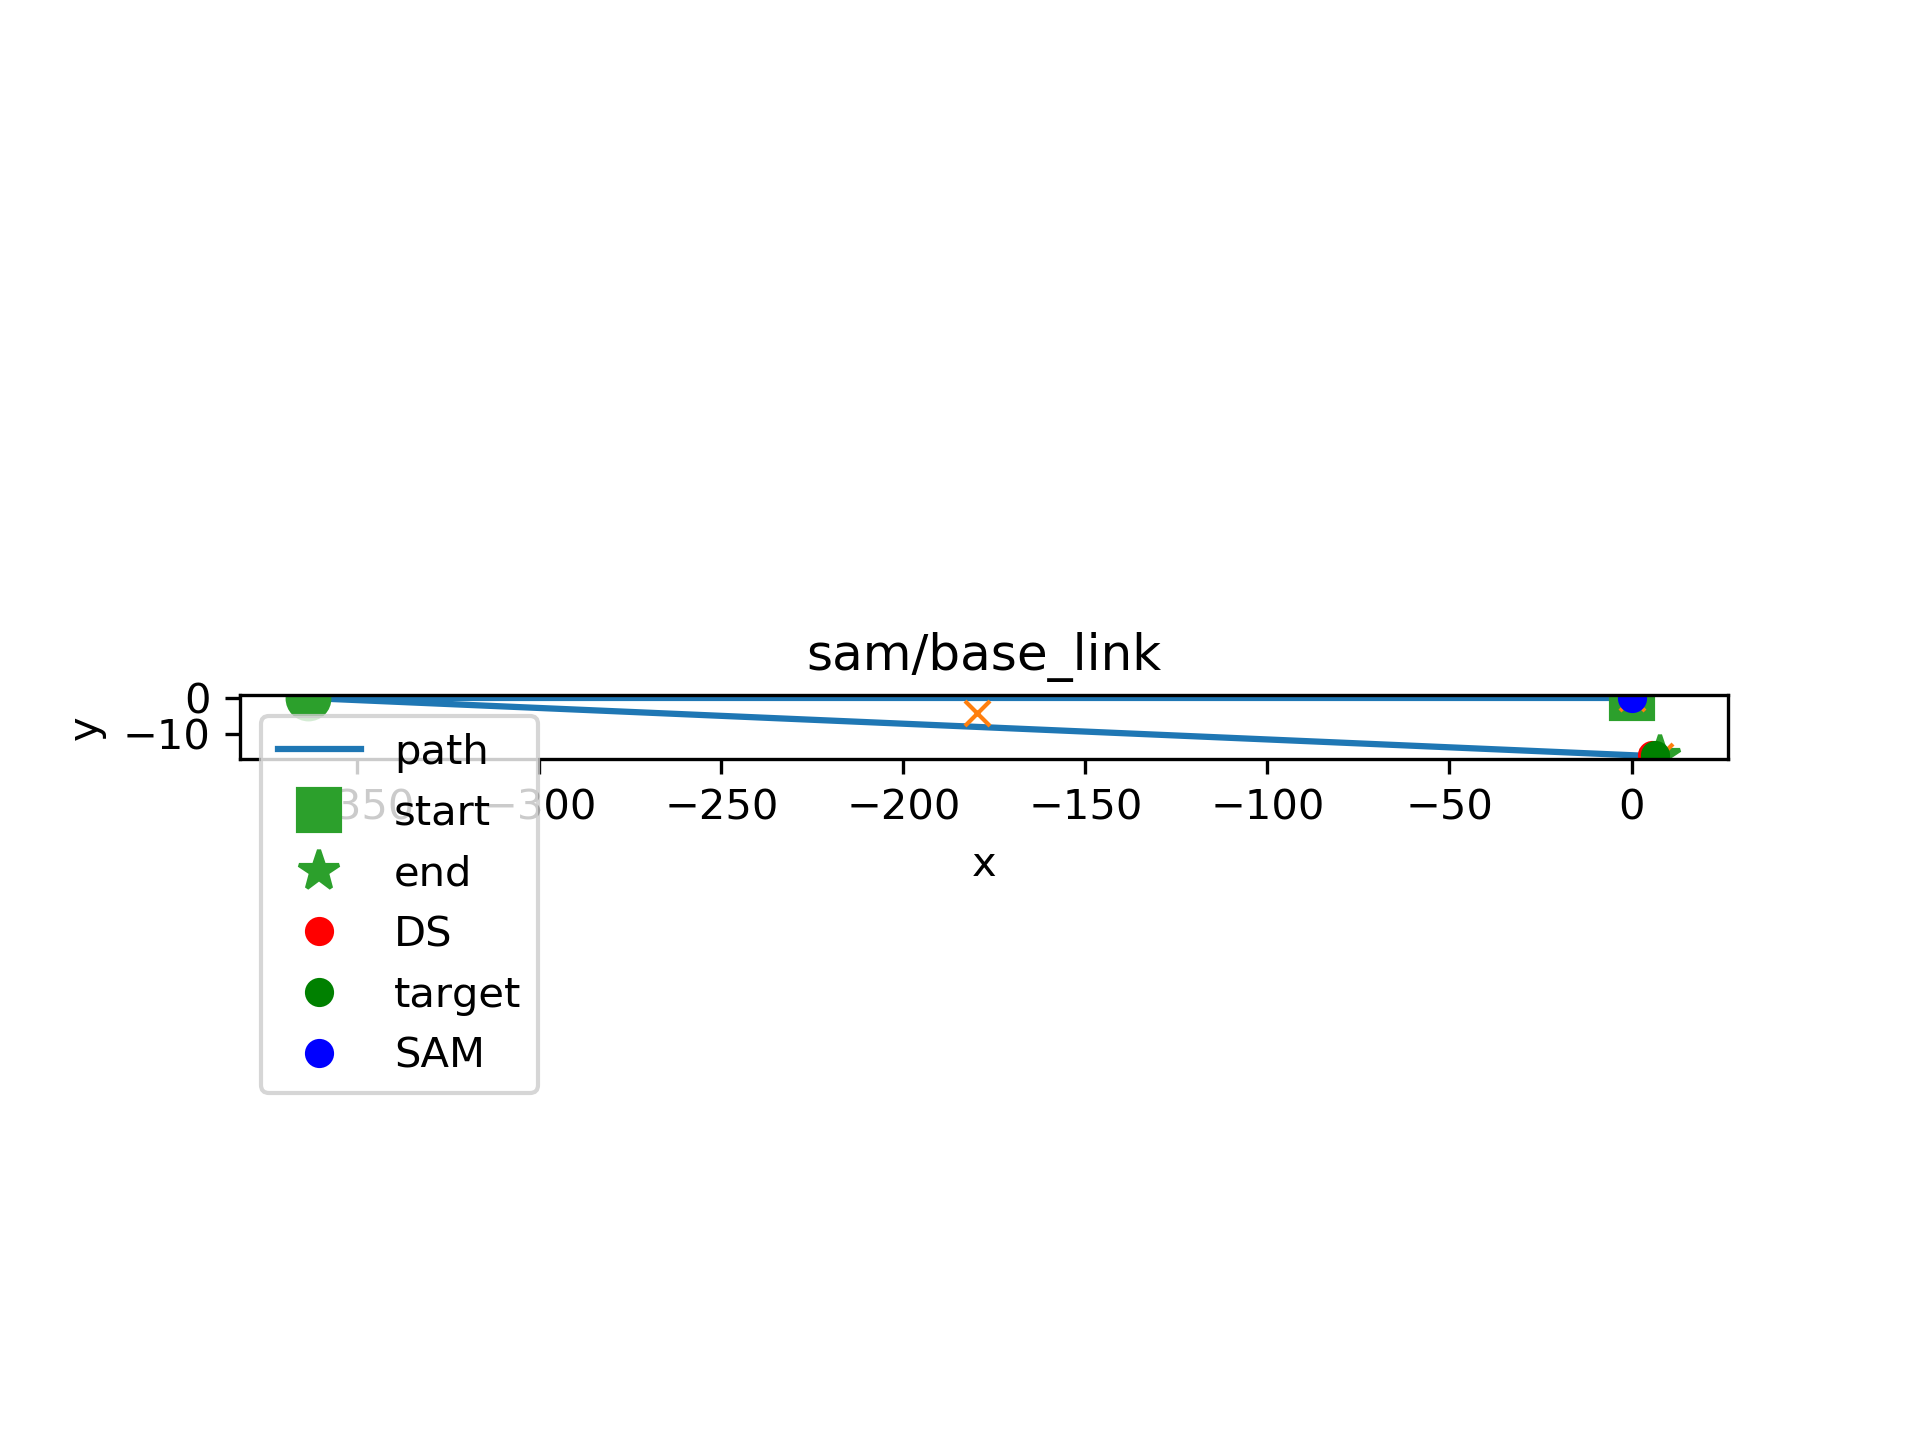
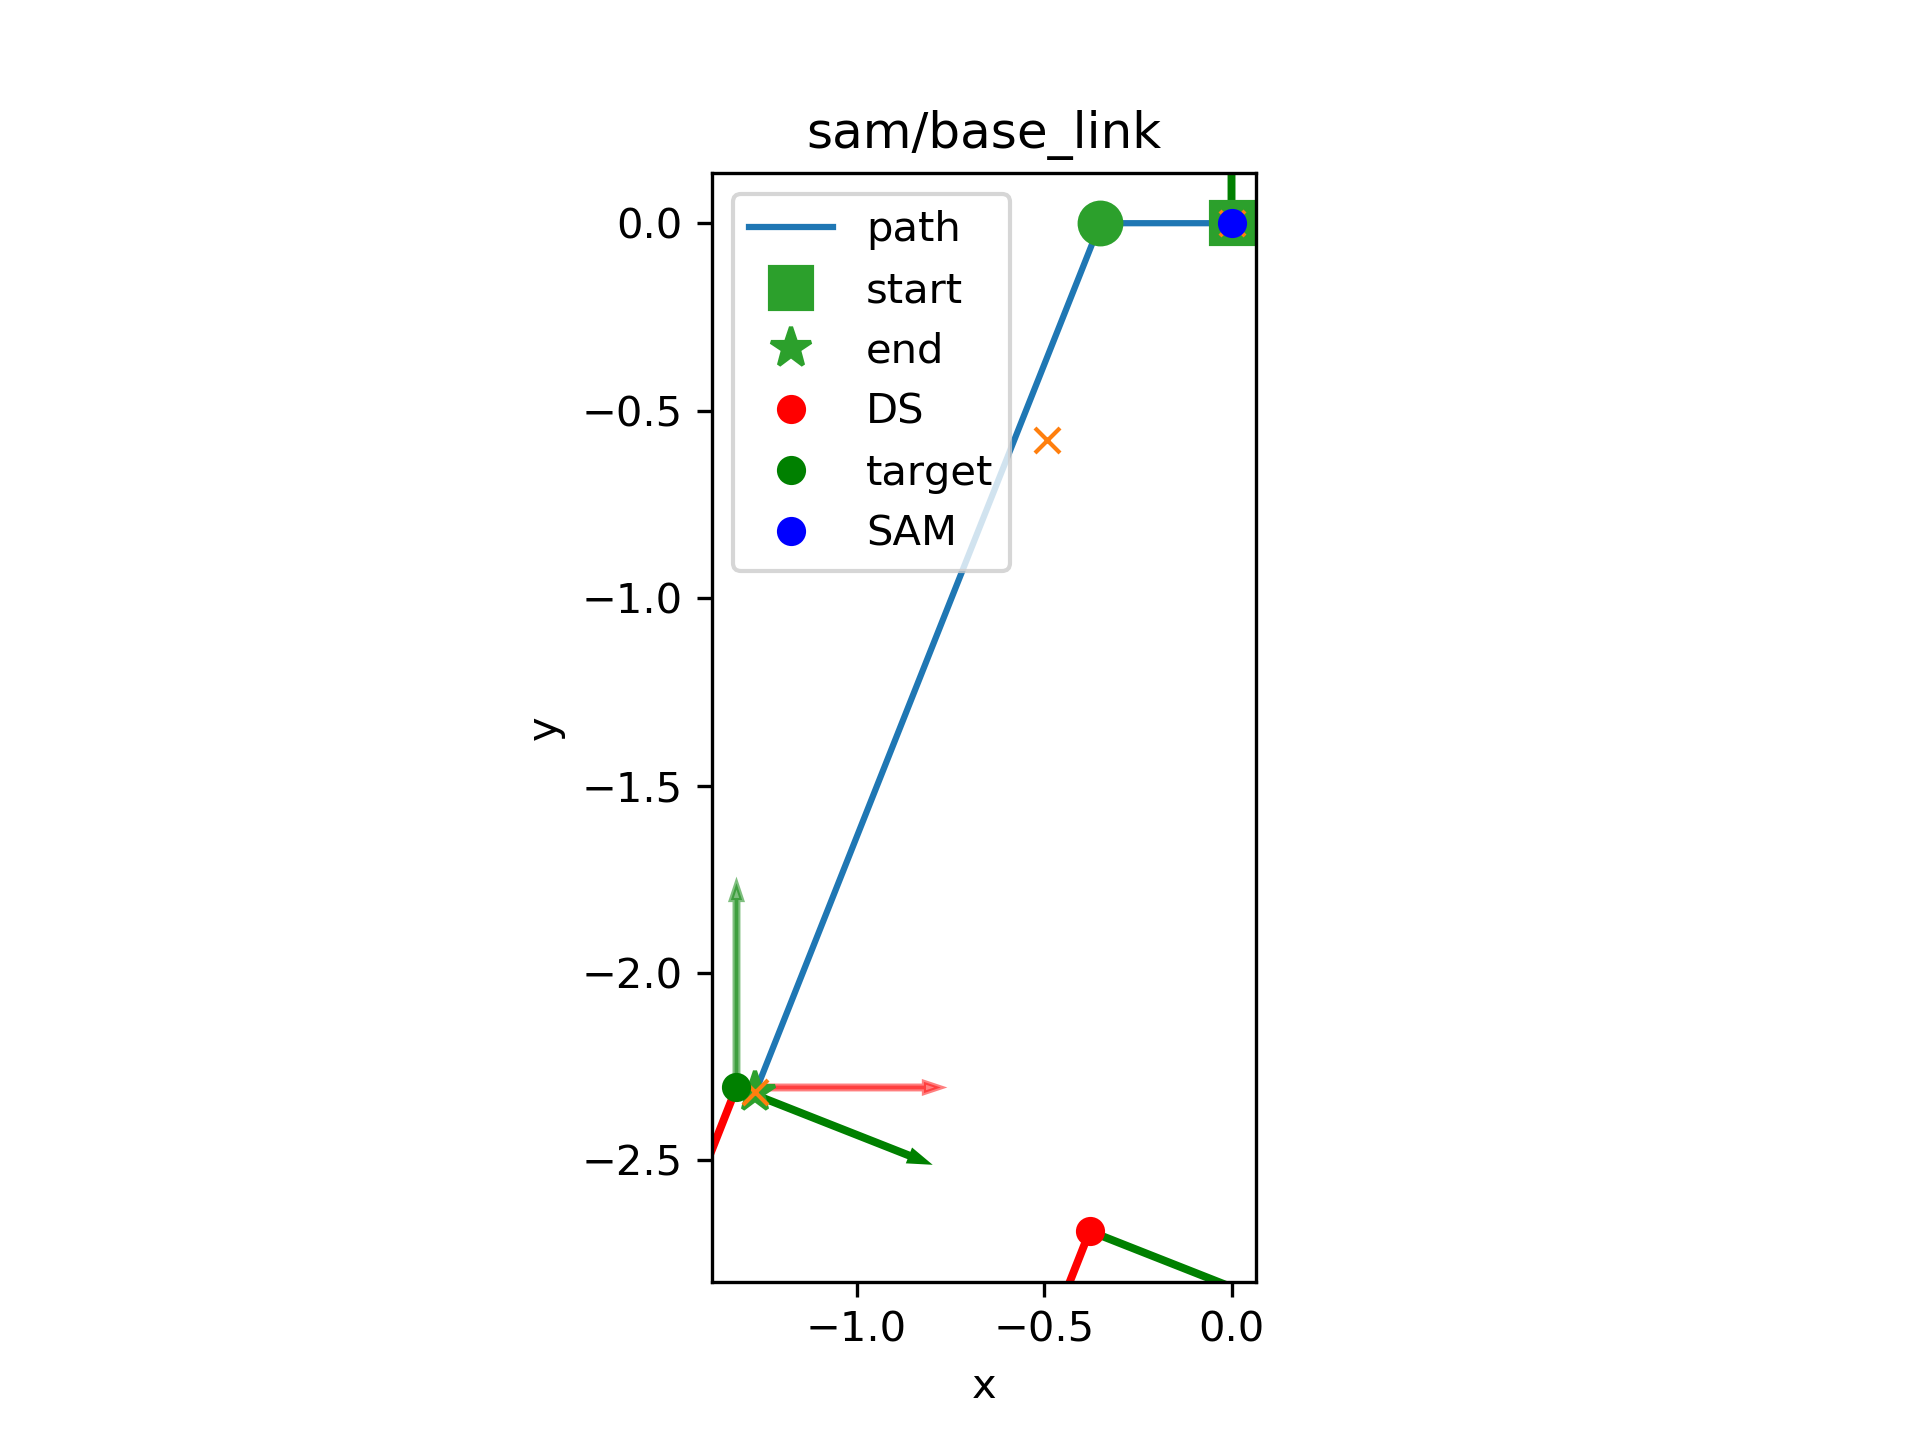
Planner Update
- Adjusted planner to new docking station estimate from particle filter
- Updated unit test for change in variables

diff --git a/src/planner_node.py b/src/planner_node.py
@@ -12,8 +12,9 @@ from simple_path_planner import SimplePathPlanner
 
 import rospy
 from geometry_msgs.msg import PoseWithCovarianceStamped, PoseStamped
+from nav_msgs.msg import Odometry
 
-from tf.transformations import euler_from_quaternion
+from tf.transformations import euler_from_quaternion, quaternion_from_euler, quaternion_matrix, quaternion_from_matrix
 import tf
 
 class PlannerNode(object):
@@ -36,9 +37,9 @@ class PlannerNode(object):
         waypoint_topic = rospy.get_param("~waypoint_topic")
 
         # Subscribers
-        rospy.Subscriber(docking_station_pose_topic, PoseWithCovarianceStamped,
+        rospy.Subscriber(docking_station_pose_topic, Odometry,
                          self.docking_station_pose_cb, queue_size=1)
-        rospy.Subscriber(state_estimate_topic, PoseWithCovarianceStamped,
+        rospy.Subscriber(state_estimate_topic, Odometry,
                          self.state_estimat_cb, queue_size=1)
 
         # Publisher
@@ -47,6 +48,7 @@ class PlannerNode(object):
         # TF tree listener
         self.listener = tf.TransformListener()
         self.base_frame = 'sam/base_link'   # TODO: put that into the launch file.
+        self.planning_frame = 'sam/odom'    # The frame we get sam and the docking station in. 
 
 
         # Run
@@ -97,18 +99,37 @@ class PlannerNode(object):
         Callback to extract the docking station pose and calculate the 
         corresponding target for docking.
         """
-        # map frame
+        # sam/odom frame, but with the orientation of the camera frame
+        # To make things easier, we add a rotation to it, s.t. it's the same
+        # orientation as sam/base_link, e.g. ENU
         docking_station_pose = self.get_pose_from_mgs(docking_station_pose_msg.pose)
+
+        t_ds_pose = docking_station_pose[0:3]
+        quat_ds_pose = quaternion_from_euler(*docking_station_pose[3:6])
+        R_ds_pose = quaternion_matrix(quat_ds_pose)
+        
+        quat_rot_x = quaternion_from_euler(np.pi/2, 0., 0.)
+        R_rot_x = quaternion_matrix(quat_rot_x)
+
+        quat_rot_z = quaternion_from_euler(0., 0., np.pi/2)
+        R_rot_z = quaternion_matrix(quat_rot_z)
+
+        R_ds_prime = np.matmul(np.matmul(R_ds_pose, R_rot_x), R_rot_z)
+
+        quat_ds_prime = quaternion_from_matrix(R_ds_prime)
+        rpy_ds_prime = euler_from_quaternion(quat_ds_prime)
+
+
         self.planner.goal_map[0] = docking_station_pose[0]
         self.planner.goal_map[1] = docking_station_pose[1]
-        self.planner.goal_map[2] = docking_station_pose[5]
+        self.planner.goal_map[2] = rpy_ds_prime[2]
 
-        x_axis_docking_station, _ = self.planner.calculate_orientation_axes(self.planner.goal_map[2], 1)
+        x_axis_docking_station, _ = self.planner.calculate_orientation_axes(self.planner.goal_map[2], -1)
         self.planner.target_map = np.array([self.planner.goal_map[0] + x_axis_docking_station[0],
                                         self.planner.goal_map[1] + x_axis_docking_station[1]])
 
         target_map = PoseWithCovarianceStamped()
-        target_map.header.frame_id = 'map'
+        target_map.header.frame_id = 'sam/odom'
         target_map.header.stamp = rospy.Time(0)
         target_map.pose.pose.position.x = self.planner.target_map[0]
         target_map.pose.pose.position.y = self.planner.target_map[1]
@@ -132,7 +153,7 @@ class PlannerNode(object):
 
         # Transform into sam/baselink
         tmp_pose = PoseStamped()
-        tmp_pose.header.frame_id = 'map'
+        tmp_pose.header.frame_id = 'sam/odom'
         tmp_pose.header.stamp = rospy.Time(0)
         tmp_pose.pose.position.x = pose_arg.pose.pose.position.x
         tmp_pose.pose.position.y = pose_arg.pose.pose.position.y
@@ -201,7 +222,8 @@ class PlannerNode(object):
         """
         for pt in range(len(self.planner.control_points_base["x"])):
             control_point_pose = self.transform_waypoint_to_pose([self.planner.control_points_base["x"][pt],
-                                                                  self.planner.control_points_base["y"][pt]])
+                                                                  self.planner.control_points_base["y"][pt]],
+                                                                  self.base_frame)
             control_point_map = self.transform_to_map(control_point_pose)
             self.planner.control_points_map["x"][pt] = control_point_map.pose.position.x
             self.planner.control_points_map["y"][pt] = control_point_map.pose.position.y
@@ -212,7 +234,8 @@ class PlannerNode(object):
 
         for pt in range(len(self.planner.path_base["x"])):
             waypoint_pose = self.transform_waypoint_to_pose([self.planner.path_base["x"][pt],
-                                                             self.planner.path_base["y"][pt]])
+                                                             self.planner.path_base["y"][pt]],
+                                                             self.base_frame)
             waypoint_map = self.transform_to_map(waypoint_pose)
             self.planner.path_map["x"][pt] = waypoint_map.pose.position.x
             self.planner.path_map["y"][pt] = waypoint_map.pose.position.y
@@ -222,17 +245,17 @@ class PlannerNode(object):
         """
         Transform the current waypoint into pose and publish it
         """
-        current_waypoint_map = self.transform_waypoint_to_pose(self.planner.current_waypoint_map)
+        current_waypoint_map = self.transform_waypoint_to_pose(self.planner.current_waypoint_map, self.planning_frame)
 
         self.waypoint_pub.publish(current_waypoint_map)
 
 
-    def transform_waypoint_to_pose(self, waypoint):
+    def transform_waypoint_to_pose(self, waypoint, frame_id):
         """
         Transform the waypoint into a pose
         """
         waypoint_pose = PoseWithCovarianceStamped()
-        waypoint_pose.header.frame_id = self.base_frame
+        waypoint_pose.header.frame_id = frame_id
         waypoint_pose.header.stamp = rospy.Time.now()
         waypoint_pose.pose.pose.position.x = waypoint[0]
         waypoint_pose.pose.pose.position.y = waypoint[1]
@@ -264,7 +287,7 @@ class PlannerNode(object):
         tmp_pose.pose.orientation.w = pose_arg.pose.pose.orientation.w
 
         try:
-            pose_map = self.listener.transformPose('map', tmp_pose)
+            pose_map = self.listener.transformPose('sam/odom', tmp_pose)
 
         except Exception as exception_msg:
             rospy.logwarn("[SPP]: Transform to base frame failed: {}".format(exception_msg))

diff --git a/test/test_simple_planner.py b/test/test_simple_planner.py
@@ -17,7 +17,7 @@ class TestSimplePathPlanner(unittest.TestCase):
 
     @classmethod
     def setUpClass(self):
-        self.simple_path_planner =  SimplePathPlanner("SimplePathPlanner")
+        self.simple_path_planner =  SimplePathPlanner()
 
     # Test Cases
     #region testRequirePlan
@@ -35,39 +35,39 @@ class TestSimplePathPlanner(unittest.TestCase):
         """
         self.simple_path_planner.path_calculated = True
 
-        self.simple_path_planner.target_base = np.array([0, 0])
-        self.simple_path_planner.target_base[0] = 1.
-        self.simple_path_planner.target_base[1] = 1.
+        self.simple_path_planner.target_map = np.array([0, 0])
+        self.simple_path_planner.target_map[0] = 1.
+        self.simple_path_planner.target_map[1] = 1.
 
-        self.simple_path_planner.path_base["x"] = np.array([0, 0])
-        self.simple_path_planner.path_base["y"] = np.array([0, 0])
+        self.simple_path_planner.path_map["x"] = np.array([0, 0])
+        self.simple_path_planner.path_map["y"] = np.array([0, 0])
 
-        self.simple_path_planner.path_base["x"][-1] = 2.
-        self.simple_path_planner.path_base["y"][-1] = 2.
+        self.simple_path_planner.path_map["x"][-1] = 2.
+        self.simple_path_planner.path_map["y"][-1] = 2.
 
         self.assertTrue(self.simple_path_planner.check_require_plan())
 
     def test_require_plan_goal_rotated(self):
         """
-        Test planning wehn goal rotated
+        Test planning when goal rotated
         """
         self.simple_path_planner.path_calculated = True
 
-        self.simple_path_planner.target_base = np.array([0, 0])
-        self.simple_path_planner.target_base[0] = 1.
-        self.simple_path_planner.target_base[1] = 1. 
+        self.simple_path_planner.target_map = np.array([0, 0])
+        self.simple_path_planner.target_map[0] = 1.
+        self.simple_path_planner.target_map[1] = 1.
 
-        self.simple_path_planner.path_base["x"] = np.array([0, 0])
-        self.simple_path_planner.path_base["y"] = np.array([0, 0])
+        self.simple_path_planner.path_map["x"] = np.array([0, 0])
+        self.simple_path_planner.path_map["y"] = np.array([0, 0])
 
-        self.simple_path_planner.path_base["x"][-1] = 1. 
-        self.simple_path_planner.path_base["y"][-1] = 1.
+        self.simple_path_planner.path_map["x"][-1] = 1.
+        self.simple_path_planner.path_map["y"][-1] = 1.
 
-        self.simple_path_planner.goal_base = np.zeros(3)
-        self.simple_path_planner.goal_base[2] = 0
+        self.simple_path_planner.goal_map = np.zeros(3)
+        self.simple_path_planner.goal_map[2] = 0
 
-        self.simple_path_planner.control_points_base["theta"] = np.zeros(3)
-        self.simple_path_planner.control_points_base["theta"][-1] = 1
+        self.simple_path_planner.control_points_map["theta"] = np.zeros(3)
+        self.simple_path_planner.control_points_map["theta"][-1] = 1
 
         self.assertTrue(self.simple_path_planner.check_require_plan())
 
@@ -77,21 +77,21 @@ class TestSimplePathPlanner(unittest.TestCase):
         """
         self.simple_path_planner.path_calculated = True
 
-        self.simple_path_planner.target_base = np.array([0, 0])
-        self.simple_path_planner.target_base[0] = 1.
-        self.simple_path_planner.target_base[1] = 1.
+        self.simple_path_planner.target_map = np.array([0, 0])
+        self.simple_path_planner.target_map[0] = 1.
+        self.simple_path_planner.target_map[1] = 1.
 
-        self.simple_path_planner.path_base["x"] = np.array([0, 0])
-        self.simple_path_planner.path_base["y"] = np.array([0, 0])
+        self.simple_path_planner.path_map["x"] = np.array([0, 0])
+        self.simple_path_planner.path_map["y"] = np.array([0, 0])
 
-        self.simple_path_planner.path_base["x"][-1] = 1.
-        self.simple_path_planner.path_base["y"][-1] = 1.
+        self.simple_path_planner.path_map["x"][-1] = 1.
+        self.simple_path_planner.path_map["y"][-1] = 1.
 
-        self.simple_path_planner.goal_base = np.zeros(3)
-        self.simple_path_planner.goal_base[2] = 0
+        self.simple_path_planner.goal_map = np.zeros(3)
+        self.simple_path_planner.goal_map[2] = 0
 
-        self.simple_path_planner.control_points_base["theta"] = np.zeros(3)
-        self.simple_path_planner.control_points_base["theta"][-1] = 0
+        self.simple_path_planner.control_points_map["theta"] = np.zeros(3)
+        self.simple_path_planner.control_points_map["theta"][-1] = 0
 
         self.assertFalse(self.simple_path_planner.check_require_plan())
     #endregion

diff --git a/src/simple_path_planner.py b/src/simple_path_planner.py
@@ -147,7 +147,7 @@ class SimplePathPlanner(object):
         in the map frame.
         """
         distance_to_waypoint = self.calculate_distance_to_waypoint(current_position_map)
-        
+
         if distance_to_waypoint < self.eps:
             if self.current_index < len(self.path_map["x"])-1:
                 self.current_index += 1
